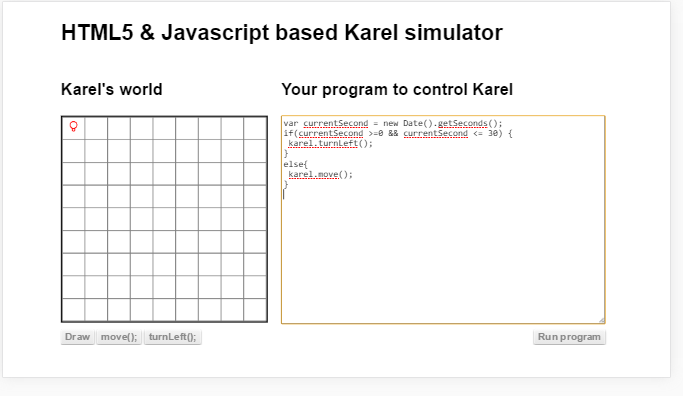
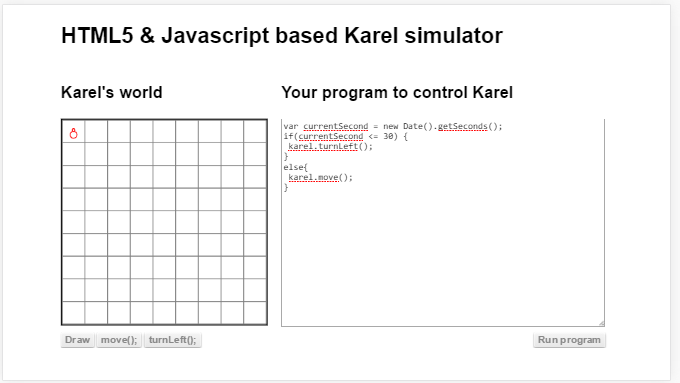
if -multiple comparison

diff --git a/manuscript/06.20-if.md b/manuscript/06.20-if.md
@@ -18,7 +18,8 @@
 ഇഫ് മാത്രമായി വേണമെങ്കിലും നമുക്ക് പ്രോഗ്രാം എഴുതാം. സാഹചര്യപരിശോധന ശരിയായില്ലെങ്കിൽ വരുന്ന else / 'അല്ലെങ്കിൽ' ഭാഗം വേണമെന്ന് നിർബന്ധമില്ല.
 
 താഴെ കൊടുത്തിരിക്കുന്ന പ്രോഗ്രാം നോക്കുക. കരെൽ എങ്ങോട്ടാണ് തിരിഞ്ഞിരിക്കുന്നത് എന്നതിന് അനുസരിച്ചു ഇടത്തോട്ട് തിരിയുന്നു. വ്യക്തമായി പറഞ്ഞാൽ  കരെൽ  സ്ക്രീനിന്റെ മുകളിലേക്ക് ആണ് ഇപ്പോൾ തിരിഞ്ഞിരിക്കുന്നതെങ്കിൽ karel.direction വടക്ക് എന്ന് സൂചിപ്പിക്കുന്ന "N" എന്ന അക്ഷരം ആണ് തരിക. 
-![ഇഫ്](images/ch06/20/02-ifonly.PNG)
+
+![ഇഫ് കണ്ടിഷന്](images/ch06/20/02-ifonly.PNG)
 
 ##എന്തൊക്കെയാണ് ബ്രൌസറിന്റെ 'ശരി' കള്
 
@@ -35,7 +36,7 @@
 ## ഒന്നില് കൂടുതല് താരതമ്യങ്ങള് വരുന്ന വാചകങ്ങള്
 താരതമ്യം വഴി നിര്ധാരണം ചെയ്യുമ്പോള് ഒന്നില് കൂടുതല് താരതമ്യങ്ങളും ഉപയോഗിക്കാം. ഉദാഹരണമായി ഇപ്പോഴത്തെ സമയത്തില് സെക്കന്റ് 30നു താഴെയായിരിക്കുകയും മിനിറ്റ് 15നു താഴെയായിരിക്കുകയും   ചെയ്യുമ്പോള് മാത്രം കരെല് മുന്നോട്ട് ചലിക്കണം. അല്ലെങ്കില് ഇടത്തോട്ട് തിരിയണം എന്ന് പ്രോഗ്രാമില് പറയുന്നതാണ് താഴെ കൊടുത്തിരിക്കുന്നത്.
 
-program karel വിത്ത് 2 conditions
+![if 2 conditions](images/ch06/20/03-2comparisons.PNG)
 
  ഇതുപോലെ 'ആന്ഡ്' എന്ന && ചിഹ്നം ഉപയോഗിച്ച് എത്ര വേണമെങ്കിലും താരതമ്യങ്ങളെ കൂട്ടിച്ചേര്ക്കാം. പ്രോഗ്രാം പ്രവര്ത്തിക്കുമ്പോള് അവയുടെ ആകെത്തുക മുകളില് പറഞ്ഞ ശരികളില് ഒന്ന് ( ട്രൂ , 1 , സാധുതയുള്ള ഒബ്ജെക്റ്റ്) ആണോ എന്ന് മാത്രം നോക്കിയാണ് ഏത് കൂട്ടം നിര്ദേശങ്ങള് പ്രവര്ത്തിക്കണം എന്ന് തീരുമാനിക്കുന്നത്.
 
